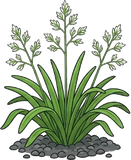
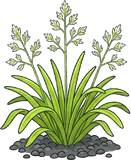
Botón Pista en la ronda de invasores y Poa en verde limón

diff --git a/index.html b/index.html
@@ -110,6 +110,10 @@ body.tv #app{max-width:1400px}
   transition:transform .26s ease, opacity .26s ease;user-select:none;-webkit-user-select:none;cursor:grab}
 .icard .em{font-size:5.5rem;line-height:1}
 .icard .nm{font-family:var(--display);font-weight:800;font-size:1.45rem;text-wrap:balance}
+.hintrow{display:flex;align-items:center;gap:12px;padding-top:8px}
+.hintrow .btn{width:auto;padding:10px 16px}
+.hint-ring{fill:none;stroke:#e4552a;stroke-width:5;transform-box:fill-box;transform-origin:center;animation:hintpulse .8s ease-in-out infinite}
+@keyframes hintpulse{50%{stroke-opacity:.3;transform:scale(1.18)}}
 .belt-wrap{display:flex;flex-direction:column;gap:6px}
 .belt-lbl{display:flex;justify-content:space-between;font:800 .72rem var(--display);letter-spacing:.1em;color:var(--suave,#5b7385)}
 .belt{position:relative;height:178px;overflow:hidden;border-radius:14px;background:#d8e3ea;border:2px solid #aebdc7;touch-action:manipulation}
@@ -189,6 +193,7 @@ body.tv #app{max-width:1400px}
     <div class="hud-row"><span class="prompt" id="hudPrompt"></span><span class="small" id="hudTime"></span></div>
   </div>
   <div class="stage" id="stageWrap"><svg id="stage" xmlns="http://www.w3.org/2000/svg" role="img" aria-label="Escena de juego"></svg></div>
+  <div class="hintrow" id="hintRow" hidden><button class="btn sec" type="button" id="btnHint">💡 Pista (−5 puntos)</button><span class="small" id="hintLeft"></span></div>
   <div class="swipe" id="swipe" hidden>
     <div class="belt-wrap">
       <div class="belt-lbl"><span>ENTRADA</span><span>BASE ➜</span></div>
@@ -812,7 +817,7 @@ function introR2(){
     intro(S.mode === "mini" ? "Minijuego" : "Ronda 3 de 4", "¿Quién es el invasor?", [
       para("En la Antártica viven solo <strong>dos plantas con flor nativas</strong>. Cualquier otro pasto es sospechoso. <strong>Fíjate en la forma</strong>, no en el color."),
       guide,
-      para("Toca solo las <strong>Poa annua</strong>. Si tocas una planta nativa pierdes 5 puntos. " + (LONG ? "Son 2 zonas de 40 segundos." : "Tienes 40 segundos.")),
+      para("Toca solo las <strong>Poa annua</strong>. Si tocas una planta nativa pierdes 5 puntos. " + (LONG ? "Son 2 zonas de 40 segundos." : "Tienes 40 segundos.") + " Si te atascas, el botón <strong>Pista</strong> marca una Poa annua (cuesta 5 puntos; 2 por zona)."),
       para("<span class=\"small\">En terreno es más difícil: estas plantas se parecen mucho y las confirma una persona experta.</span>")
     ], LONG ? "Ir a la zona 1" : "Buscar invasoras", function(){ round2(0); }, PH.guia);
 }
@@ -832,7 +837,7 @@ function round2(zi){
   var extra = Math.min(LONG ? 5 : 3, Math.ceil((S.seedsTotal - S.seedsFound) / 2) + (S.cargoLeak || 0));
   var n = zi === 0 ? 4 + extra : 4;
   show("juego"); stageMode(true); $("#hudRound").textContent = (S.mode === "mini" ? "" : "Ronda 3 · ") + (LONG ? z.titulo : "Alrededores de la base");
-  wrongPenalty = 2; zoneFound0 = S.invFound;
+  wrongPenalty = 2; zoneFound0 = S.invFound; hintsLeft = 2; $("#hintRow").hidden = false; updateHint();
   zoneInv = drawScene($("#stage"), z.id, n); S.invTotal += zoneInv; updatePrompt2();
   onAllFound = function(){ nextZone(zi); }; playing = true; startTimer(z.seg, function(){ nextZone(zi); });
 }
@@ -859,7 +864,19 @@ function nextZone(zi){
 }
 
 /* ---------- Ronda 1: control de carga (¿pasa o no pasa?) ---------- */
-function stageMode(on){ $("#stageWrap").hidden = !on; $("#swipe").hidden = on; }
+function stageMode(on){ $("#stageWrap").hidden = !on; $("#swipe").hidden = on; $("#hintRow").hidden = true; }
+var hintsLeft = 0;
+function updateHint(){ $("#hintLeft").textContent = hintsLeft > 0 ? "Quedan " + hintsLeft : "Sin pistas"; $("#btnHint").disabled = hintsLeft <= 0; }
+$("#btnHint").onclick = function(){
+  if (!playing || hintsLeft <= 0) return;
+  var left = targets.filter(function(t){ return t.good && !t.found; });
+  if (!left.length) return;
+  var t = pick(left), svg = $("#stage"), k = vk(svg);
+  hintsLeft--; updateHint(); setScore(-5);
+  var ring = el("circle", { cx: t.x, cy: t.y, r: 34 * k, "class": "hint-ring", style: "stroke-width:" + (5 * k) + "px" }, svg);
+  toast("Pista: hay una Poa annua dentro del círculo naranja");
+  setTimeout(function(){ ring.remove(); }, 2600);
+};
 var ITEMS = [
   { e: "🥾", t: "Botas lavadas, con la suela revisada", s: "Botas lavadas", ok: "pasa", r: "Botas limpias: sin barro ni semillas." },
   { e: "🥫", t: "Conservas en latas selladas", s: "Latas selladas", ok: "pasa", r: "Envase cerrado y limpio: no lleva tierra." },
